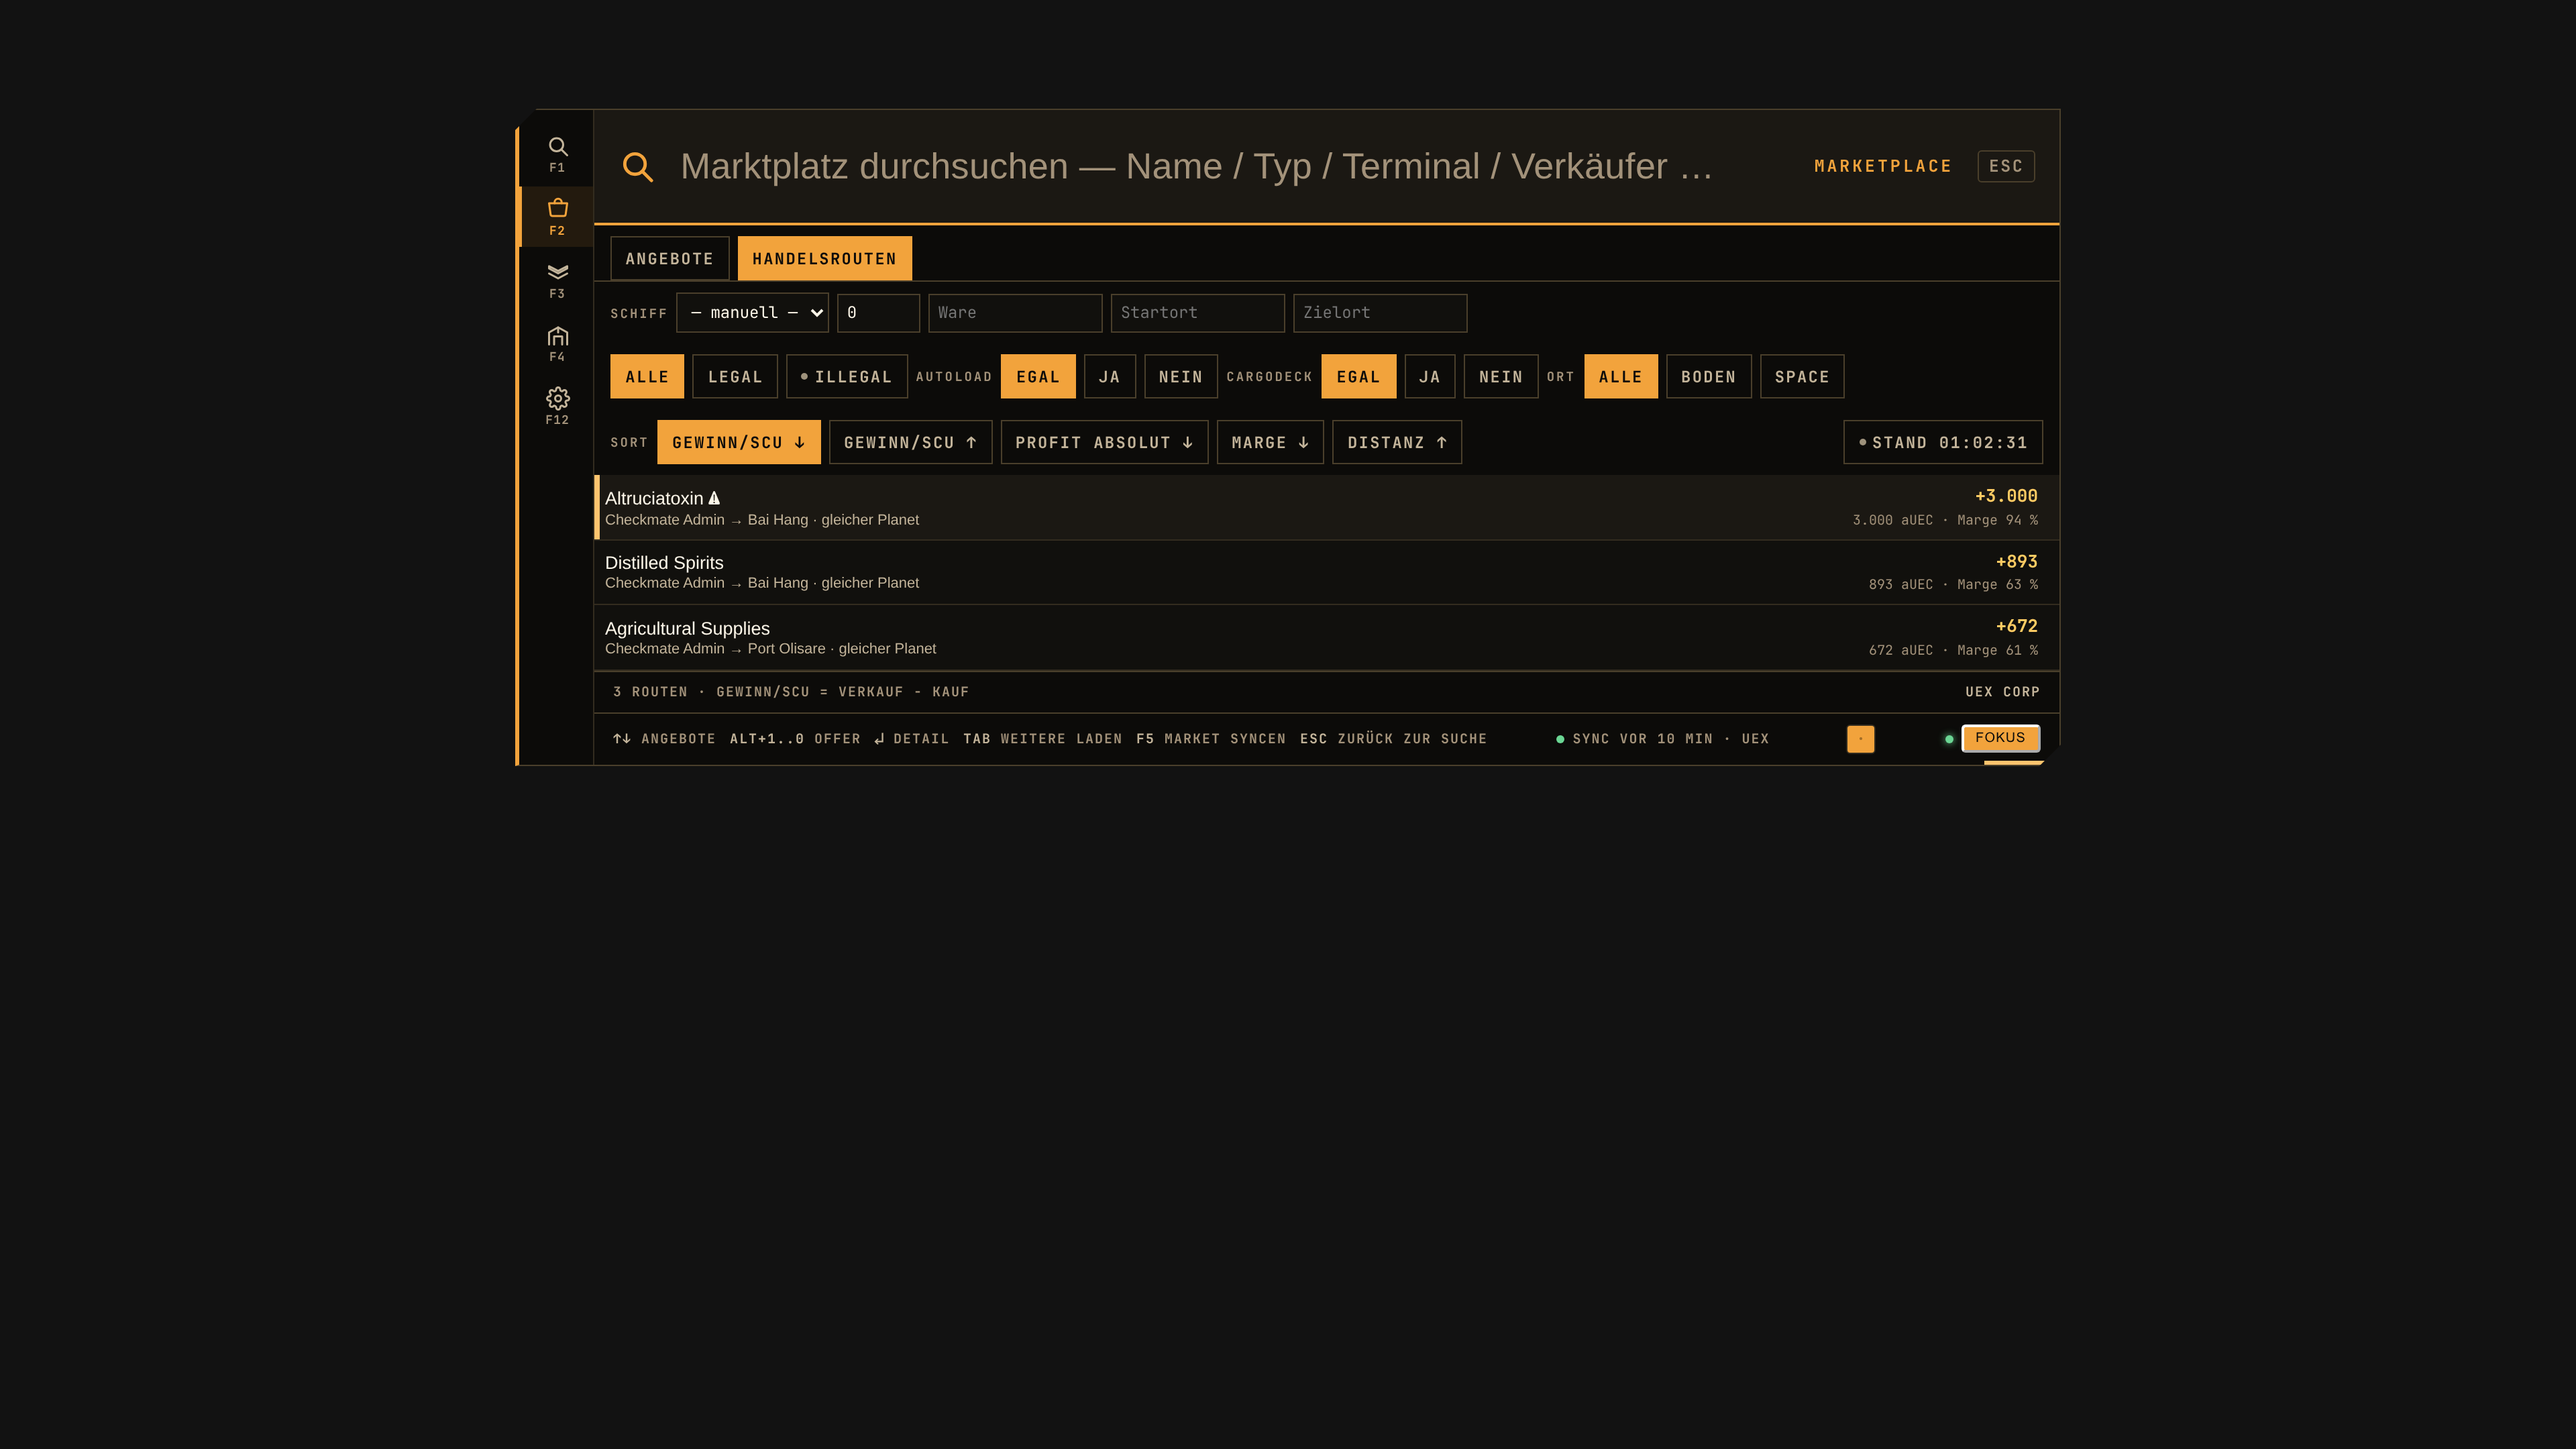
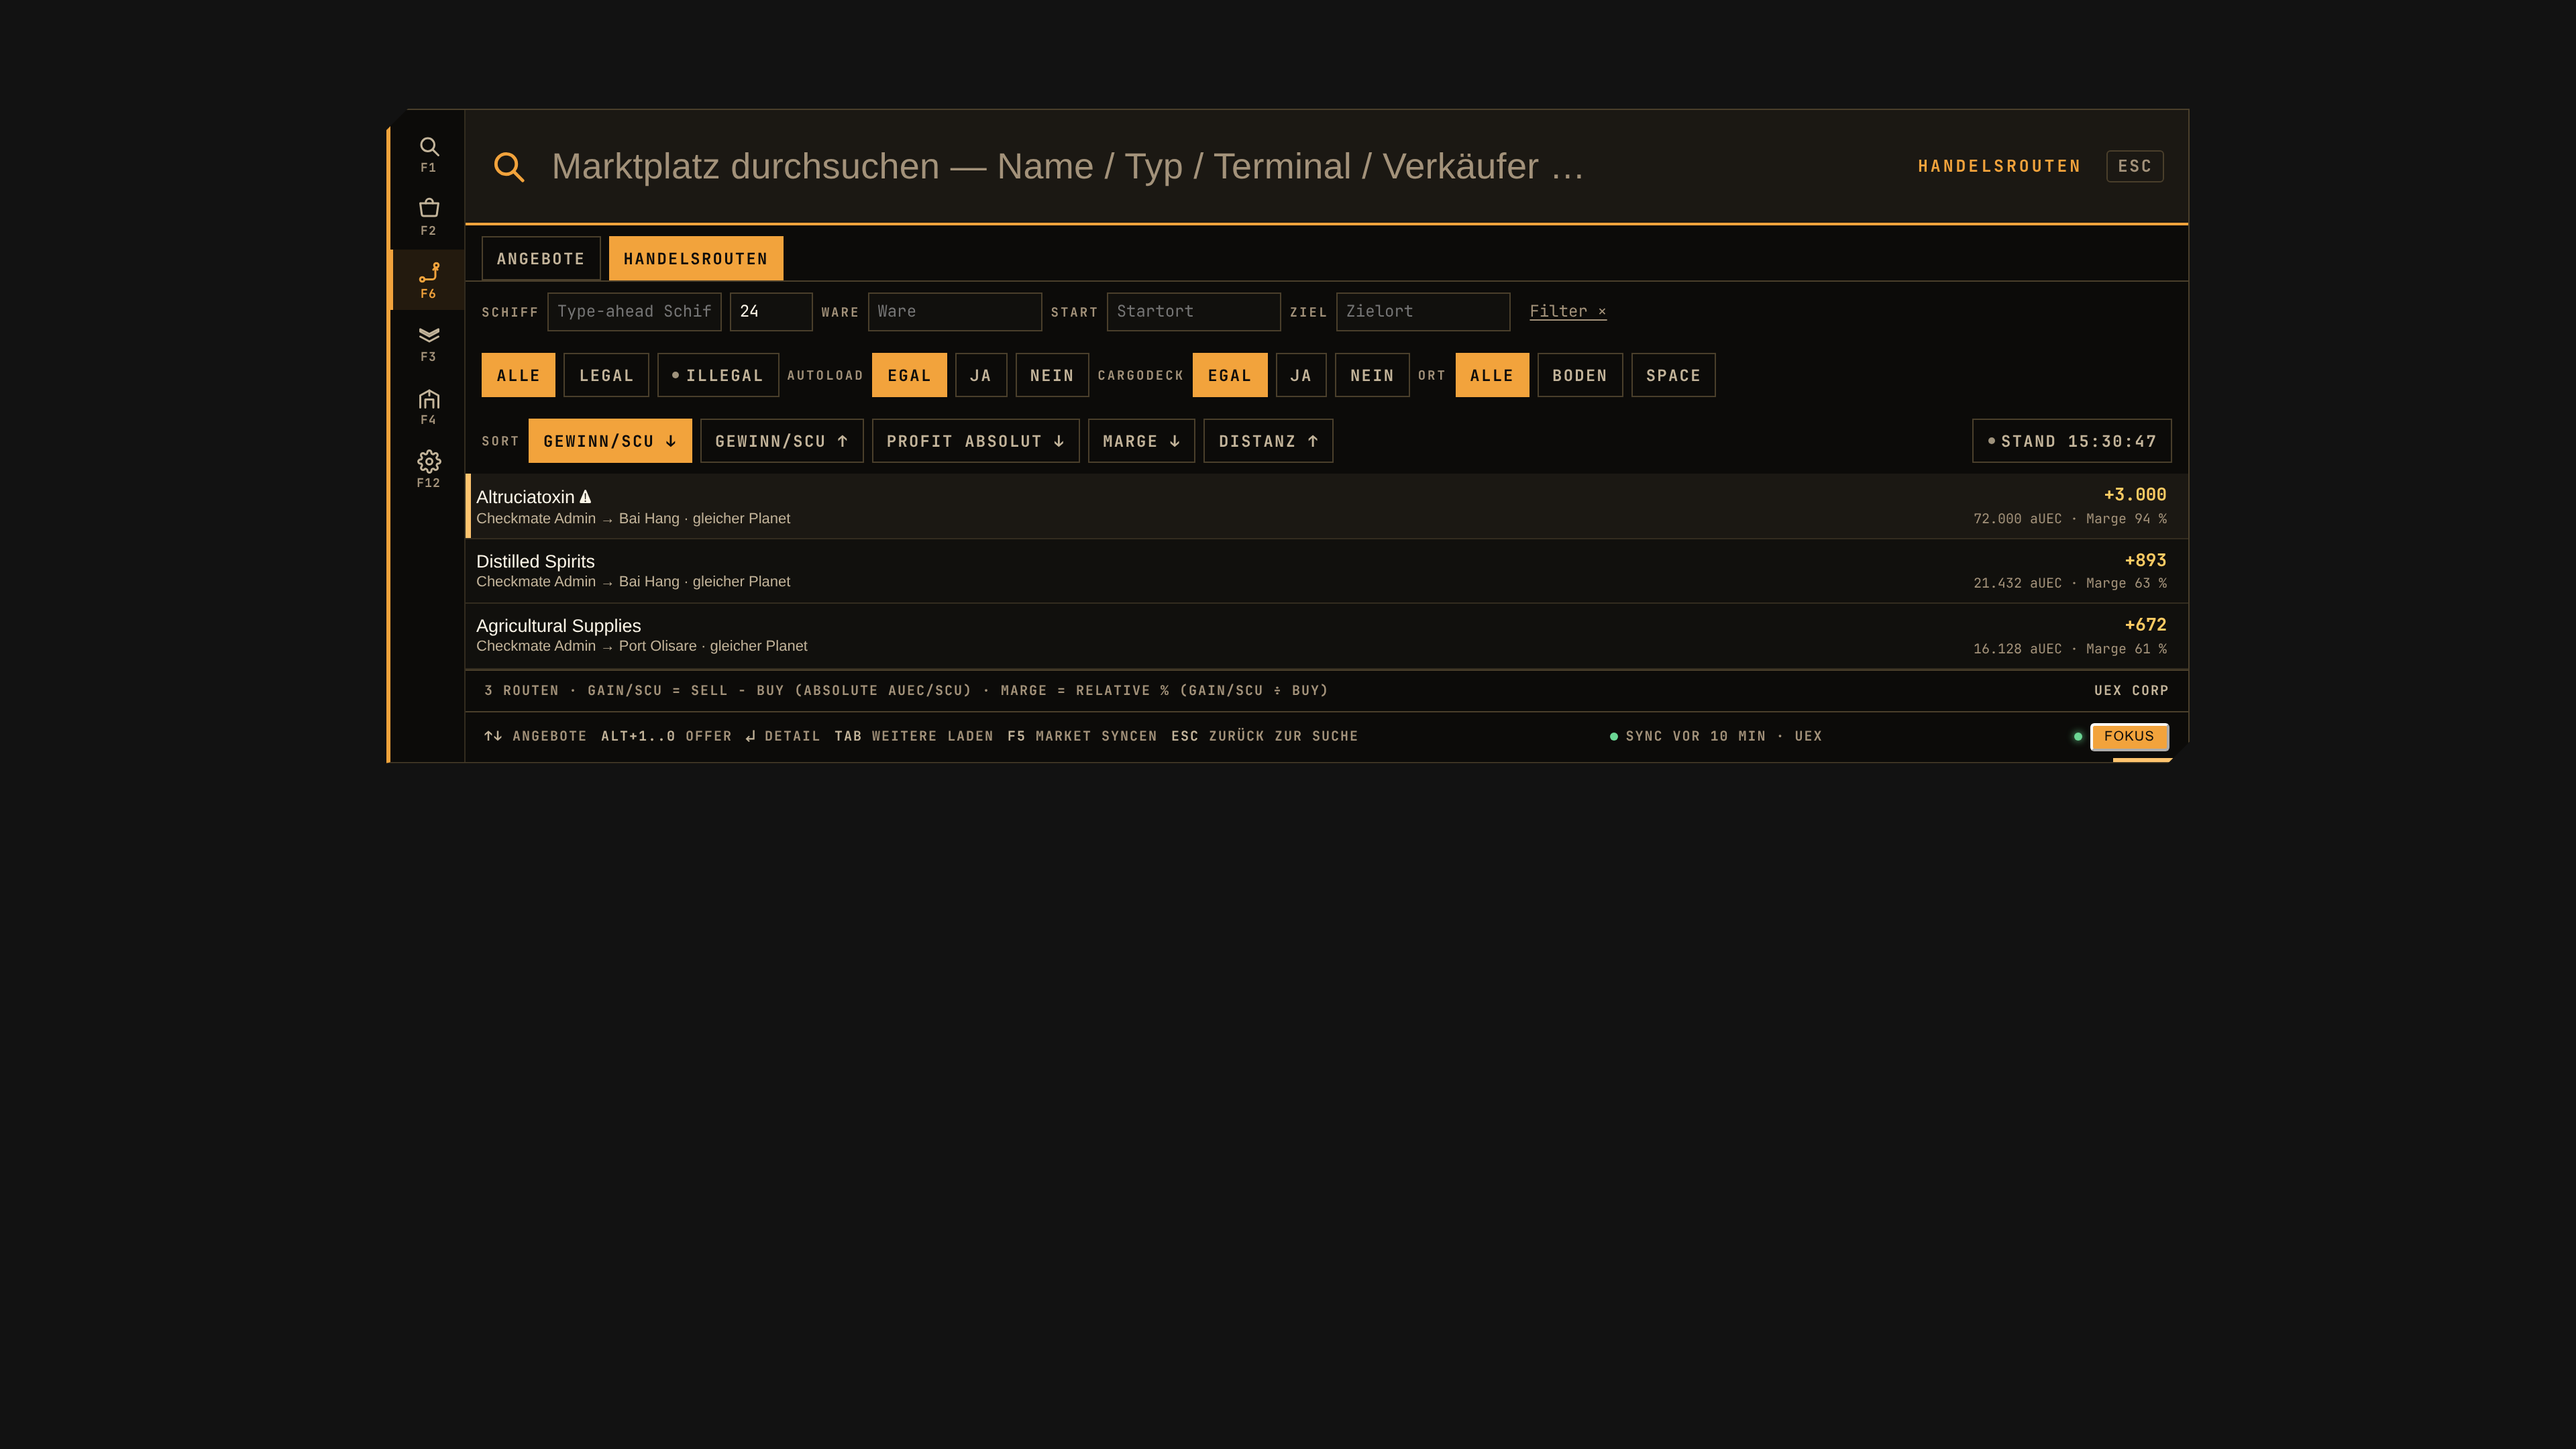
RB1 t_723939ff: Smoke-Harness — location_suggest-Stub + Probe auf Typeahead angepasst
- smoke-stub: location_suggest (nur Locations) + __locPool; Schiff-Test im
  trading-routes-Probe nutzt den Typeahead statt des entfernten selects.
- route-detail-math auf SCU-24-Beleg korrigiert (P15b Auto-Select).

diff --git a/docs/scripts/smoke-stub.js b/docs/scripts/smoke-stub.js
@@ -12,6 +12,15 @@
    dump_real_import_for_smoke mit ARCH_HANGAR_DUMP, echter Parser+Merge
    gegen /tmp/HangarExport) — hier wird nur die IPC-Grenze gestubbt. */
 window.__HANGAR_DATA__ = window.__HANGAR_DATA__ || [];
+/* RB1: Pool der Location-Namen für den location_suggest-Stub — NUR
+   EntityKind::Locations (wie das echte Backend), keine Shops/Terminals.
+   Names typbar für Schiff/Startort/Zielort-Typeahead im Smoke. */
+window.__locPool = [
+	{ name: 'Mining Claim #QR4-25Q', kind: 'location', subtitle: 'Stanton > Crusader > Yela > Bashak Fields' },
+	{ name: 'Checkmate Station', kind: 'location', subtitle: 'Pyro > Monox > Monox Lagrange Point 4 > Checkmate Station' },
+	{ name: 'Levski', kind: 'location', subtitle: 'Stanton > Nyx > Delamar > Levski' },
+	{ name: 'Grim HEX', kind: 'location', subtitle: 'Stanton > Yela > Asteroid Belt > Grim HEX' }
+];
 function hangarSave() { /* In-Memory; kein Persistenz-Nachweis nötig */ }
 function hangarNextId() {
   return window.__HANGAR_DATA__.reduce((m, i) => Math.max(m, i.id || 0), 0) + 1;
@@ -600,7 +609,22 @@ window.__TAURI_INTERNALS__ = {
 			globalThis.__lastInv = { op: 'delete', id: a.id };
 			return null;
 		}
-		case 'vehicles_scu': {
+		case 'location_suggest': {
+				// RB1: Spiegel des Backend location_suggest — NUR Locations
+				// (EntityKind::Locations), nie Shops/Terminals. Starts-first,
+				// contains-danach, max 12. Nutzt dieselben Locations wie `search`
+				// (__locPool), damit echte Namen typbar sind.
+				const q = String((a && a.query) || '').trim().toLowerCase();
+				if (!q) return [];
+				const locNames = (globalThis.__locPool || [])
+					.filter((l) => l.kind === 'location')
+					.map((l) => String(l.name).trim())
+					.filter((n, i, arr) => n && arr.indexOf(n) === i);
+				const starts = locNames.filter((n) => n.toLowerCase().startsWith(q));
+				const contains = locNames.filter((n) => n.toLowerCase().includes(q) && !starts.includes(n));
+				return starts.concat(contains).slice(0, 12);
+			}
+			case 'vehicles_scu': {
 				// SCU-Kapazitäten (lowercase name → SCU) — Smoke-Daten.
 				return { 'carrack': 62, 'nomad': 24, 'cutlass black': 46 };
 			}

diff --git a/docs/scripts/trading-routes-probe.py b/docs/scripts/trading-routes-probe.py
@@ -149,8 +149,9 @@ async def main():
         detail = await js("!!document.querySelector('.rdetail')")
         check("route-detail-opens", bool(detail))
         math_txt = (await js("document.querySelector('.rd-math') ? document.querySelector('.rd-math').innerText : ''")).replace("\n", " ")
-        # SCU=1 (manuell 0): Gewinn 6200-3200 = 3000 (de-DE: "3.000")
-        check("route-detail-math-scu1", "3.000" in math_txt and "3.200" in math_txt and "6.200" in math_txt, math_txt)
+        # P15b/RB1: genau 1 Hangar-Schiff (Nomad) → Ship-Typeahead auto-selektiert
+        # beim Laden → SCU=24, also Gewinn (6200-3200)*24 = 72000 ("72.000").
+        check("route-detail-math-scu24", "72.000" in math_txt and "76.800" in math_txt and "148.800" in math_txt, math_txt)
         await shot("02-route-detail.png")
         await key("Escape")  # Detail zu
         await asyncio.sleep(0.4)
@@ -158,11 +159,14 @@ async def main():
         check("esc-closes-detail", bool(gone))
 
         # ---- Schiff aus Hangar → SCU automatisch (Nomad = 24) ----
-        await js("(function(){var s=document.querySelector('.rsel');"
-                 "var set=Object.getOwnPropertyDescriptor(window.HTMLSelectElement.prototype,'value').set;"
-                 "set.call(s,'Nomad');"
-                 "s.dispatchEvent(new Event('change',{bubbles:true}));"
-                 "return s.value;})()")
+        # RB1 t_723939ff: Schiff = EIN Typeahead-Feld (kein separates <select>).
+        await set_input('input[aria-label="Schiff Type-ahead — Tippen filtert, ↵ übernimmt"]', "nomad")
+        await asyncio.sleep(0.8)
+        # Fokus explizit wieder aufs Typeahead (Svelte setzt den Fokus nach
+        # Moduswechsel ggf. aufs Suchfeld zurück) — dann erst die Tasten.
+        await js("document.querySelector('input[aria-label=\"Schiff Type-ahead — Tippen filtert, ↵ übernimmt\"]').focus()")
+        await key("ArrowDown")
+        await key("Enter")
         await asyncio.sleep(1.2)
         scu_val = await js("document.querySelector('input[aria-label=\"SCU-Kapazität\"]').value")
         check("ship-from-hangar-sets-scu", scu_val == "24", scu_val)
